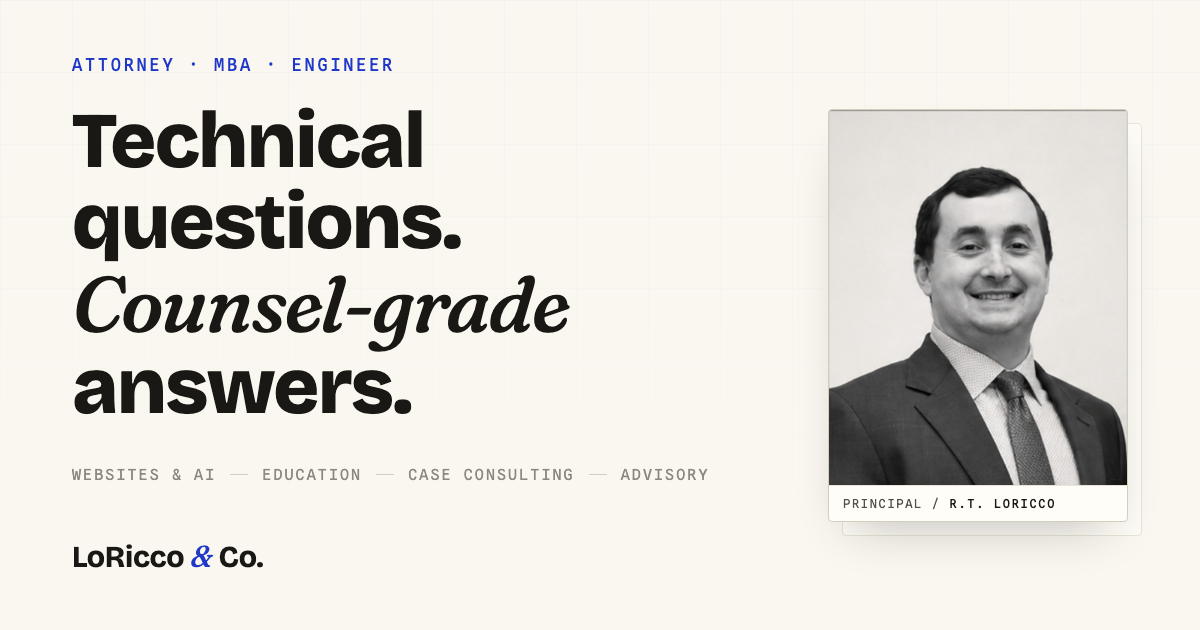
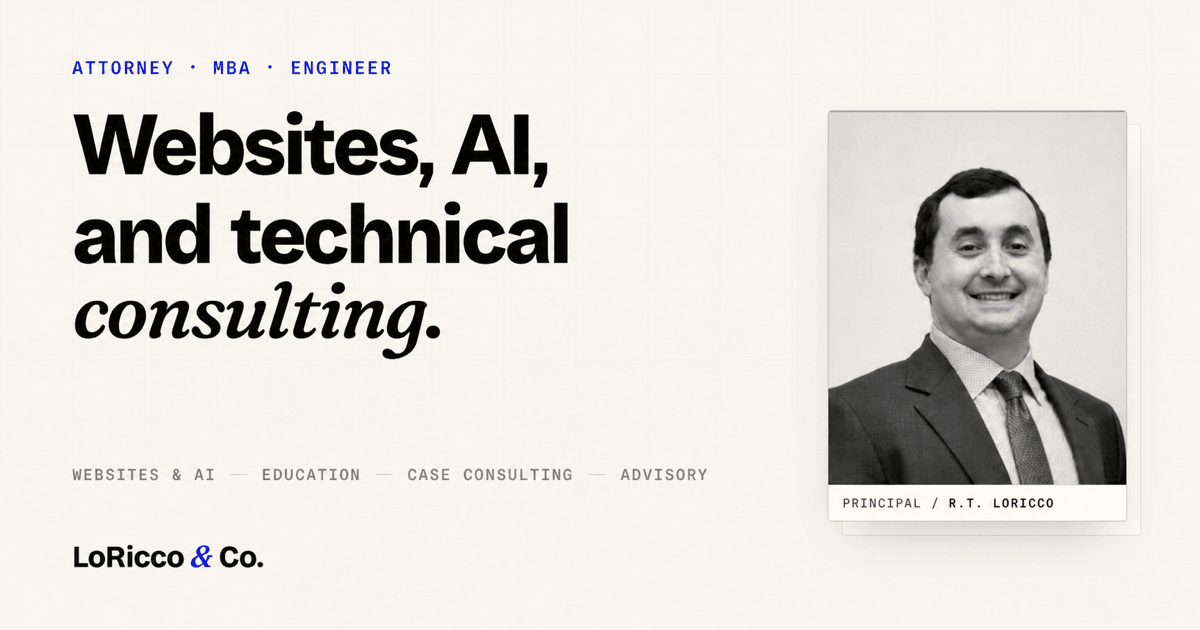
refactor: make site copy more direct

diff --git a/app/components/Services.tsx b/app/components/Services.tsx
@@ -5,15 +5,15 @@ import { motion } from "motion/react";
 const services = [
   {
     section: "§ 01",
-    title: "Websites & AI Systems",
-    outcome: "You own the result",
+    title: "Websites & AI Tools",
+    outcome: "You own the site and accounts",
     description:
-      "I rebuild outdated websites without losing the search rankings you've already earned, then keep them working after launch with content, SEO and AI-search visibility, and AI agents for intake and day-to-day operations. The domain, the code, the content, and every account are in your name from the start.",
+      "I rebuild outdated websites without throwing away the search rankings they already have. After launch, I can maintain the site, publish content, improve how it appears in Google and AI answers, and build AI tools for intake or routine work. The domain, code, content, and accounts stay in your name.",
     offerings: [
-      "Next.js rebuilds, SEO-safe migration",
-      "Site care, content & visibility retainers",
+      "Website rebuilds without losing rankings",
+      "Ongoing site care and content",
       "Visibility in Google and AI answers",
-      "AI agents, built & operated",
+      "AI tools for intake and routine work",
     ],
   },
   {
@@ -21,7 +21,7 @@ const services = [
     title: "AI Education & Training",
     outcome: "Staff who use the tools",
     description:
-      "Hands-on training for lawyers and small-business teams on what these tools do well, where they fail, and how to use them in real work without creating a compliance problem. I teach from the systems I build and run every day.",
+      "Training for lawyers and small-business teams on what AI tools do well, where they fail, and how to use them without creating a compliance problem. The sessions use examples from the systems I build and run every day.",
     offerings: [
       "Law-firm workshops",
       "Small-business sessions",
@@ -34,7 +34,7 @@ const services = [
     title: "Technical Consulting for Law Firms",
     outcome: "Analysis counsel can use",
     description:
-      "When a case turns on technology, I work for the attorney. I read the discovery, decode carrier and platform records, and write a plain-English analysis counsel can build a strategy on. The engagement is structured with work-product protection in mind. I also advise firms on their own technology decisions.",
+      "When a case turns on technology, I work for the attorney. I read the discovery, interpret carrier and platform records, and explain what the records show in writing. The engagement is structured with work-product protection in mind. I also advise firms on their own technology decisions.",
     offerings: [
       "Digital evidence & discovery analysis",
       "Technical memos for counsel",
@@ -62,7 +62,7 @@ export default function Services() {
     <section
       id="services"
       className="relative scroll-mt-24 px-6 py-28"
-      aria-label="The practice"
+      aria-label="Services"
     >
       <div className="mx-auto max-w-6xl">
         {/* Section header */}
@@ -73,13 +73,13 @@ export default function Services() {
           transition={{ duration: 0.5 }}
           className="mb-4 max-w-2xl"
         >
-          <p className="kicker rule-label text-text-muted">The Practice</p>
+          <p className="kicker rule-label text-text-muted">Services</p>
           <h2 className="font-display mt-5 text-4xl font-bold leading-[1.08] tracking-tight sm:text-5xl">
             What I do
           </h2>
           <p className="mt-5 text-lg leading-relaxed text-body-muted">
-            Four service lines, all delivered by me. There is no account
-            manager between us and no junior staff doing the work.
+            I handle each engagement myself. There is no account manager
+            between us and no junior staff doing the work.
           </p>
         </motion.div>
 
@@ -143,11 +143,8 @@ export default function Services() {
           transition={{ duration: 0.5, delay: 0.2 }}
           className="mt-12 text-[15px] text-body-muted"
         >
-          <span className="editorial text-lg text-foreground">
-            Not sure which of these you need?
-          </span>{" "}
-          Most engagements start with a short call and a written review of
-          where things stand.{" "}
+          Some problems cross more than one service. Most engagements start
+          with a short call and a written review of where things stand.{" "}
           <a
             href="mailto:admin@loriccoandco.com"
             className="font-medium text-cobalt underline decoration-cobalt/30 underline-offset-4 transition-colors hover:decoration-cobalt"

diff --git a/app/components/StructuredData.tsx b/app/components/StructuredData.tsx
@@ -6,7 +6,7 @@ export default function StructuredData() {
     name: "LoRicco & Co",
     url: "https://loriccoandco.com",
     description:
-      "LoRicco & Co builds and operates websites and AI systems with SEO-safe migration and AI-search visibility, delivers practical AI education for lawyers and small businesses, and provides technical consulting for law firms (digital evidence and discovery analysis for counsel). The principal is a Connecticut-admitted attorney, MBA, and software engineer. The studio also ships its own iOS apps.",
+      "LoRicco & Co rebuilds and operates websites, develops AI tools, trains lawyers and small businesses, analyzes digital evidence for counsel, and advises startups. The principal is a Connecticut-admitted attorney, MBA, and software engineer. The studio also publishes iOS apps.",
     email: "admin@loriccoandco.com",
     address: {
       "@type": "PostalAddress",
@@ -65,7 +65,7 @@ export default function StructuredData() {
             "@type": "Service",
             name: "Website Rebuilds with SEO-Safe Migration",
             description:
-              "Redesign of outdated websites into fast, modern builds with search equity preserved: URL preservation, redirects, structured data, and Search Console setup. Serving law firms, professional practices, and local businesses.",
+              "Website redesigns for law firms, professional practices, and local businesses, including URL preservation, redirects, structured data, and Search Console setup.",
           },
         },
         {
@@ -74,7 +74,7 @@ export default function StructuredData() {
             "@type": "Service",
             name: "Content & AI-Search Visibility",
             description:
-              "Monthly content production with local SEO and AI-search visibility (AEO/GEO) so businesses get surfaced by ChatGPT, Claude, Perplexity, and Google AI Overviews. Attorney-advertising compliance review for law firms.",
+              "Ongoing content, local SEO, and work to improve how a business appears in search engines and AI-generated answers, with attorney-advertising review for law firms.",
           },
         },
         {
@@ -83,7 +83,7 @@ export default function StructuredData() {
             "@type": "Service",
             name: "AI Agents & Integration",
             description:
-              "AI agents and workflow automation designed, built, and operated for law firms and small businesses: intake, follow-up, research, documentation, and internal tools.",
+              "AI tools for law firms and small businesses, including intake, follow-up, research, documentation, and internal workflows.",
           },
         },
         {
@@ -92,7 +92,7 @@ export default function StructuredData() {
             "@type": "Service",
             name: "AI Education & Training",
             description:
-              "Hands-on AI workshops and training for lawyers and small-business teams, built around real workflows and compliance constraints.",
+              "AI workshops for lawyers and small-business teams covering day-to-day use, common failures, and compliance concerns.",
           },
         },
         {
@@ -101,7 +101,7 @@ export default function StructuredData() {
             "@type": "Service",
             name: "Technical Consulting for Law Firms",
             description:
-              "Digital evidence and discovery analysis, technical memos for counsel, plain-English explanation of the technology in a case, and guidance on firm technology decisions. Retained by counsel and structured as non-testifying consulting to protect work product.",
+              "Digital evidence and discovery analysis, written explanations of technical records, questions for opposing experts, and advice on law-firm technology. Retained by counsel and structured as non-testifying consulting with work-product protection in mind.",
           },
         },
         {

diff --git a/app/components/About.tsx b/app/components/About.tsx
@@ -7,7 +7,7 @@ const principles = [
     id: "01",
     title: "Client matters stay private",
     description:
-      "Consulting work for counsel is structured with privilege and work-product protection in mind, and I don't turn client matters into marketing material. That's why you won't find case studies on this page.",
+      "Consulting work for counsel is structured with privilege and work-product protection in mind. I don't turn those matters into marketing material or publish case studies about them.",
   },
   {
     id: "02",
@@ -41,7 +41,7 @@ export default function About() {
             viewport={{ once: true, margin: "-100px" }}
             transition={{ duration: 0.5 }}
           >
-            <p className="kicker rule-label text-text-muted">About · The Principal</p>
+            <p className="kicker rule-label text-text-muted">About</p>
             <h2 className="font-display mt-5 text-4xl font-bold leading-[1.08] tracking-tight sm:text-5xl">
               About the
               <br />
@@ -49,12 +49,11 @@ export default function About() {
             </h2>
             <p className="mt-6 max-w-lg text-lg leading-relaxed text-body-muted">
               I practiced law, consulted for startups, and then moved into
-              building production software. The four service lines on this
-              page are the four kinds of problems I kept getting asked to
-              solve: a firm website that stopped
-              bringing in work, AI tools a team bought and never used, a case
-              that turned on carrier records, and a business plan that needed
-              a straight read.
+              building production software. The services on this page grew
+              out of problems people kept bringing me. Their firm website had
+              stopped bringing in work. Their team bought AI tools but never
+              used them. Their case turned on carrier records. Their business
+              plan needed a straight read.
             </p>
 
             {/* Founder (portrait lives in the hero) */}
@@ -73,10 +72,9 @@ export default function About() {
               </p>
               <p className="mt-2.5 max-w-md text-sm leading-relaxed text-body-muted">
                 I&apos;m a Connecticut-admitted attorney and software
-                engineer. I&apos;ve practiced law, consulted for startups,
-                and built production web and AI systems, and I&apos;ve
-                shipped full-stack products, open-source tools, and the
-                studio&apos;s own apps.
+                engineer with an LL.M., J.D., and MBA. My work has included
+                legal practice, startup consulting, production web and AI
+                systems, open-source tools, and the studio&apos;s apps.
               </p>
             </motion.div>
           </motion.div>

diff --git a/app/components/Studio.tsx b/app/components/Studio.tsx
@@ -35,7 +35,7 @@ const apps: App[] = [
     tagline: "Should you grill tonight?",
     category: "Weather & Utility",
     description:
-      "Real-time weather analysis with a clear YES/NO verdict, so you stop guessing and start grilling.",
+      "Checks current weather and gives a simple yes-or-no recommendation for grilling tonight.",
     image: "/apps/grilltonight/icon.png",
     imageAlt: "Grill Tonight app icon, a blazing grill",
     url: "https://grilltonight-landing.vercel.app/",
@@ -47,7 +47,7 @@ const apps: App[] = [
     tagline: "Quit nicotine, one breath at a time.",
     category: "Health & Wellness",
     description:
-      "A calm companion through cravings, with guided breathing, smart tracking, and gentle motivation.",
+      "Tracks cravings and nicotine-free streaks, with breathing exercises for difficult moments.",
     image: "/apps/milo/mascot.png",
     imageAlt: "Milo the otter mascot waving",
     url: "https://quitwithmilo.com/",
@@ -82,7 +82,7 @@ const apps: App[] = [
     tagline: "Support for the messy middle.",
     category: "Breakup Recovery",
     description:
-      "Mood-aware recovery support with SOS tools and a guided path through the first hard weeks.",
+      "Tracks mood after a breakup and provides SOS exercises for difficult moments during the first weeks.",
     image: "/apps/haven/mascot.png",
     imageAlt: "Haven companion mascot",
     color: "#B48895",
@@ -217,17 +217,16 @@ export default function Studio() {
           transition={{ duration: 0.5 }}
           className="mb-14 max-w-2xl"
         >
-          <p className="kicker rule-label text-text-muted">The Studio · Exhibit B</p>
+          <p className="kicker rule-label text-text-muted">The Studio</p>
           <h2 className="font-display mt-5 text-4xl font-bold leading-[1.08] tracking-tight sm:text-5xl">
             I also build and ship
             <br />
             my own apps.
           </h2>
           <p className="mt-5 text-lg leading-relaxed text-body-muted">
-            Four are live on the App Store and six are in development, all
-            built by me. For the live ones I handle App Store review,
-            subscriptions, analytics, and support myself, which is where most
-            of the product advice I give clients comes from.
+            Four are live on the App Store and six are in development. I build
+            them and handle App Store review, subscriptions, analytics, and
+            support. That work informs the product advice I give clients.
           </p>
         </motion.div>
 

diff --git a/app/components/Contact.tsx b/app/components/Contact.tsx
@@ -26,7 +26,7 @@ export default function Contact() {
 
           <div className="relative grid gap-10 px-8 py-14 sm:px-14 sm:py-18 lg:grid-cols-[1.2fr_0.8fr] lg:items-center">
             <div>
-              <p className="kicker text-data-ink">§ Final / Get in touch</p>
+              <p className="kicker text-data-ink">Contact</p>
               <h2 className="font-display mt-4 max-w-xl text-3xl font-bold leading-[1.1] tracking-tight text-data-hi sm:text-5xl">
                 Tell me what{" "}
                 <span className="editorial font-medium text-cobalt-bright">
@@ -55,12 +55,12 @@ export default function Contact() {
 
             {/* Mono manifest */}
             <div className="hidden border-l border-white/10 pl-10 font-mono text-[12px] leading-[2.3] text-data-ink lg:block" aria-hidden="true">
-              <p className="text-data-hi">LCO / ENGAGEMENT MANIFEST</p>
+              <p className="text-data-hi">LCO / PROJECT DETAILS</p>
               <p>PRINCIPAL / R.T. LoRicco</p>
-              <p>DISCIPLINES / JD · MBA · SWE</p>
-              <p>PRACTICE / systems · training · counsel · advisory</p>
+              <p>BACKGROUND / JD · MBA · SWE</p>
+              <p>WORK / websites · training · consulting · advisory</p>
               <p>BASE / Connecticut, USA</p>
-              <p>SEQUENCE / Diagnose → Improve</p>
+              <p>PROCESS / review → work → follow-up</p>
               <p>
                 STATUS /{" "}
                 <span className="text-cobalt-bright">accepting clients</span>

diff --git a/app/layout.tsx b/app/layout.tsx
@@ -27,7 +27,7 @@ export const metadata: Metadata = {
   metadataBase: new URL("https://loriccoandco.com"),
   title: "LoRicco & Co | Websites, AI & Technical Consulting",
   description:
-    "LoRicco & Co builds and operates websites and AI systems, teaches practical AI to lawyers and small businesses, provides technical consulting for law firms, and advises startups. One principal: attorney, MBA, and software engineer. Based in Connecticut.",
+    "LoRicco & Co rebuilds and operates websites, develops AI tools, trains lawyers and small businesses, analyzes digital evidence for counsel, and advises startups. Led by a Connecticut attorney, MBA, and software engineer.",
   openGraph: {
     title: "LoRicco & Co | Websites, AI & Technical Consulting",
     description:
@@ -40,7 +40,7 @@ export const metadata: Metadata = {
         url: "/og.png",
         width: 1200,
         height: 630,
-        alt: "LoRicco & Co: Technical questions. Counsel-grade answers. Portrait of principal Richard T. LoRicco.",
+        alt: "LoRicco & Co website with a portrait of principal Richard T. LoRicco.",
       },
     ],
   },

diff --git a/app/components/Hero.tsx b/app/components/Hero.tsx
@@ -41,9 +41,9 @@ export default function Hero() {
             transition={{ duration: 0.45, delay: 0.05 }}
             className="font-display text-[2.6rem] leading-[1.05] font-bold tracking-tight sm:text-6xl"
           >
-            Technical questions.
+            Websites, AI, and
             <br />
-            <span className="editorial font-medium">Counsel-grade</span> answers.
+            <span className="editorial font-medium">technical consulting.</span>
           </motion.h1>
 
           {/*
@@ -74,7 +74,7 @@ export default function Hero() {
               href="#services"
               className="group font-mono text-[13px] text-foreground transition-colors duration-200 hover:text-cobalt"
             >
-              See the practice{" "}
+              See what I do{" "}
               <span className="inline-block transition-transform duration-200 group-hover:translate-y-0.5">
                 ↓
               </span>

diff --git a/app/components/Process.tsx b/app/components/Process.tsx
@@ -25,7 +25,7 @@ const steps = [
     id: "04",
     verb: "Improve",
     detail:
-      "Retainers, monitoring, and follow-up, so the work keeps paying for itself after launch.",
+      "For ongoing work, I monitor the system, handle updates, and revisit it when the underlying needs change.",
   },
 ];
 
@@ -45,7 +45,7 @@ export default function Process() {
           className="mb-16 flex flex-wrap items-end justify-between gap-6"
         >
           <div>
-            <p className="kicker text-data-ink">Operating sequence</p>
+            <p className="kicker text-data-ink">How I work</p>
             <h2 className="font-display mt-4 text-3xl font-bold tracking-tight text-data-hi sm:text-4xl">
               Diagnose <span className="text-cobalt-bright">→</span> Clarify{" "}
               <span className="text-cobalt-bright">→</span> Build{" "}

diff --git a/app/components/Work.tsx b/app/components/Work.tsx
@@ -67,15 +67,14 @@ export default function Work() {
           transition={{ duration: 0.5 }}
           className="mb-14 max-w-2xl"
         >
-          <p className="kicker rule-label text-text-muted">Selected work · Exhibit A</p>
+          <p className="kicker rule-label text-text-muted">Selected work</p>
           <h2 className="font-display mt-5 text-4xl font-bold leading-[1.08] tracking-tight sm:text-5xl">
             Two websites I rebuilt
             <br />
             and still run.
           </h2>
           <p className="mt-5 text-lg leading-relaxed text-body-muted">
-            Both are live, so anything this page says about how I build and
-            run a site can be checked against them.
+            Both sites are live and linked below.
           </p>
         </motion.div>
 

diff --git a/app/components/Navbar.tsx b/app/components/Navbar.tsx
@@ -5,7 +5,7 @@ import { useState, useEffect, useRef } from "react";
 import { motion, AnimatePresence } from "motion/react";
 
 const navLinks = [
-  { label: "The Practice", href: "#services" },
+  { label: "Services", href: "#services" },
   { label: "Work", href: "#work" },
   { label: "How I Work", href: "#process" },
   { label: "The Studio", href: "#studio" },
